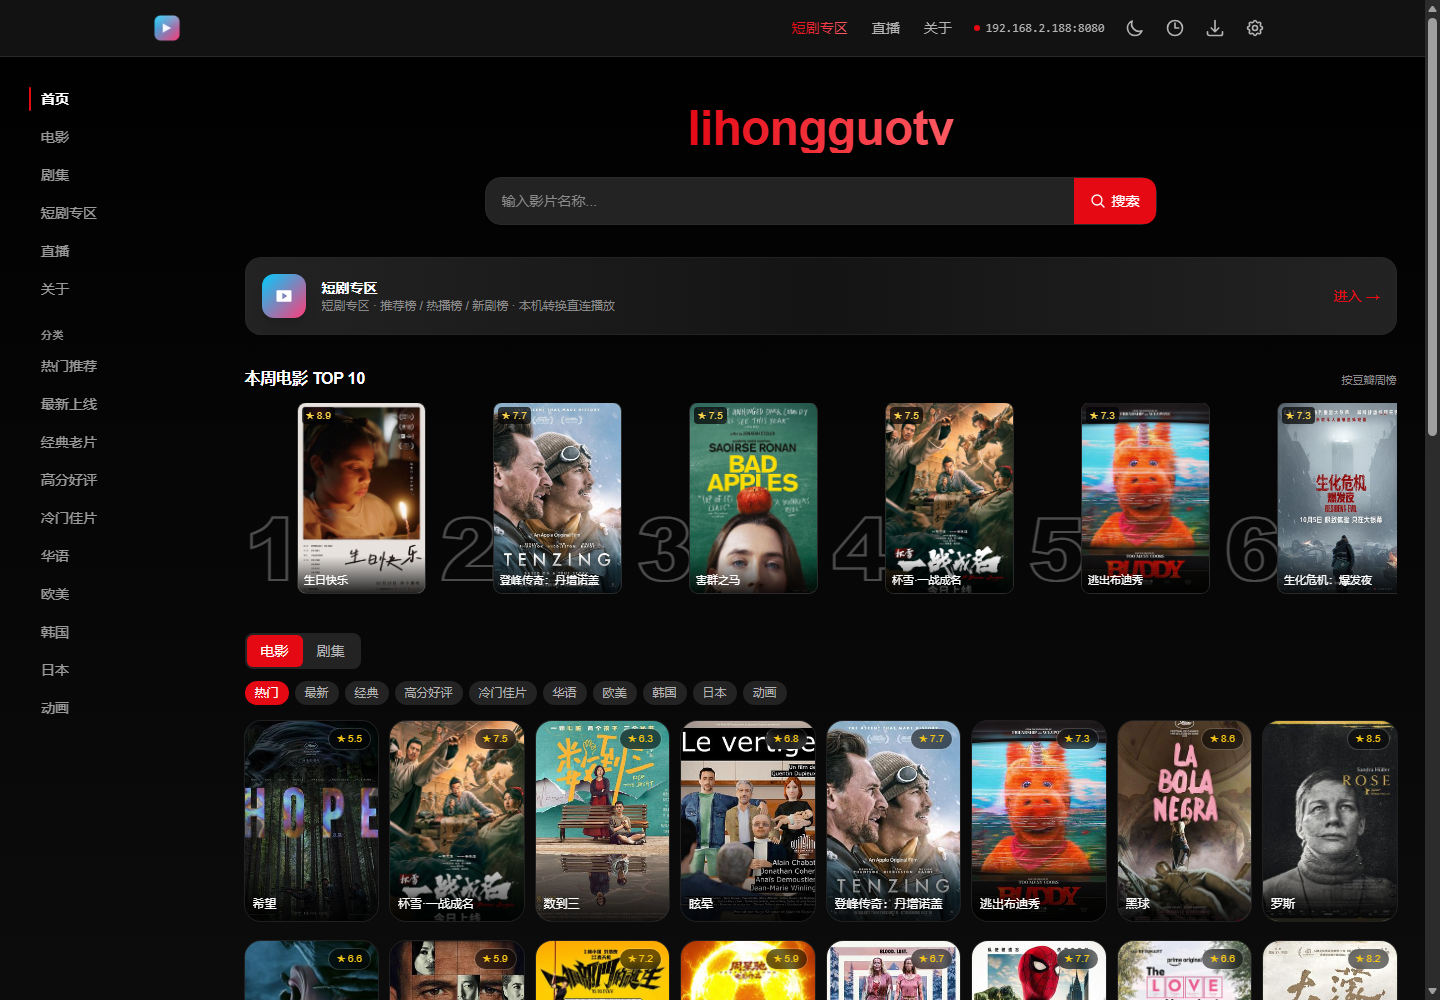
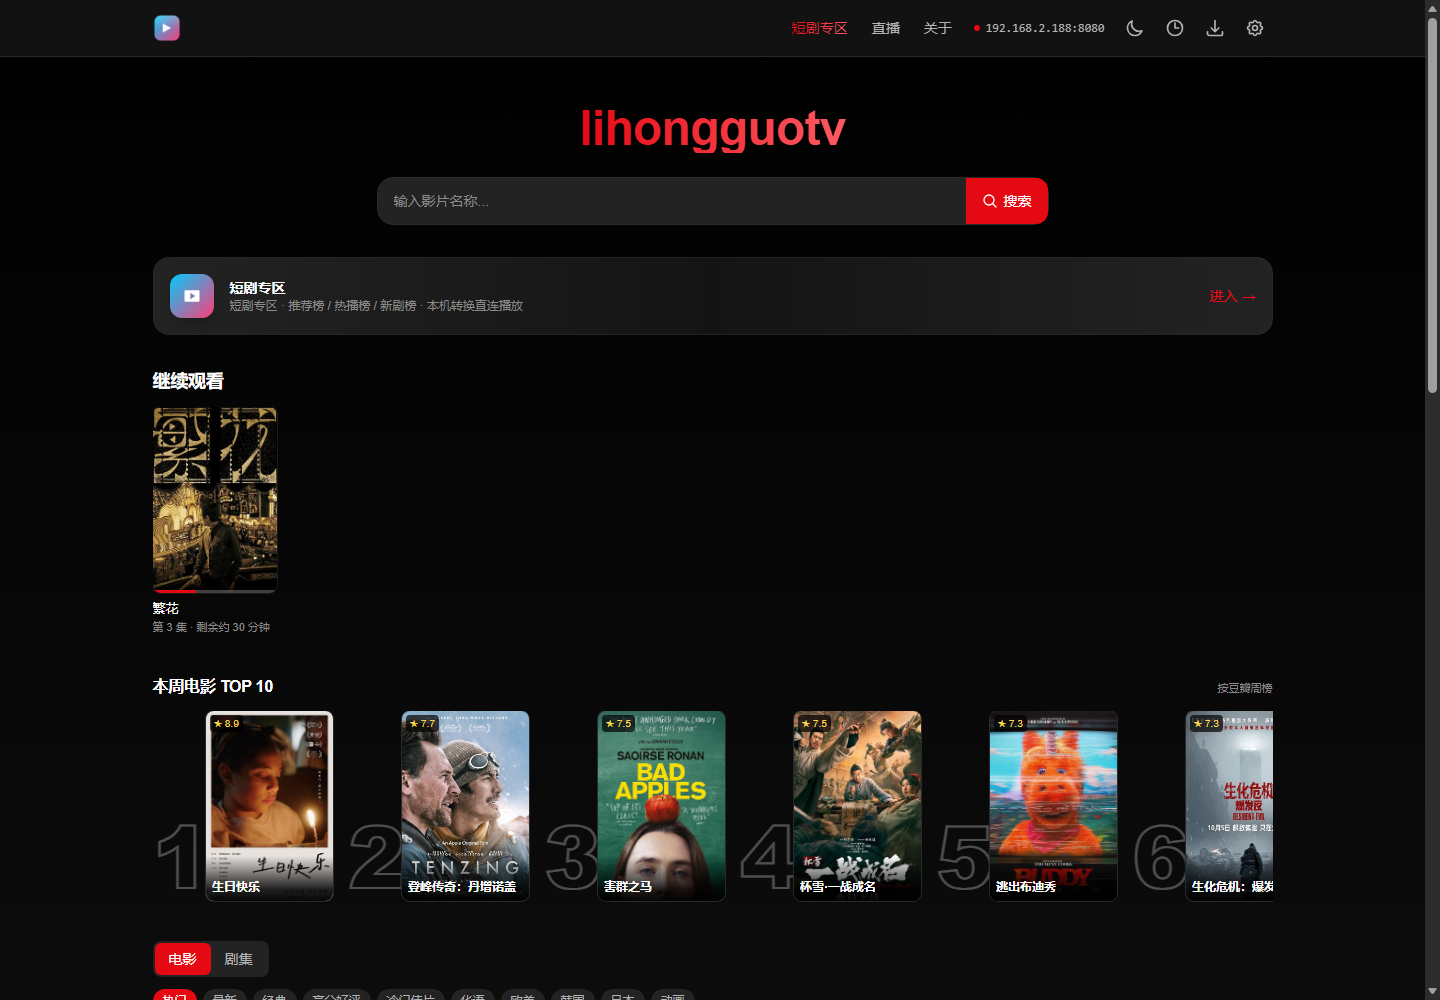
回退左侧竖排导航：首页等页面回到顶部导航
- 你说左边那列丑、条目又多 —— 拆掉 NetflixNav（aside + 手机胶囊），首页/直播/短剧/关于恢复原来的顶部导航与居中布局
- 删掉 netflix-nav.tsx；手机端因此不再有「胶囊挤一行」的问题
- 首页「继续观看」和 TOP 10 顺序保留（继续观看在上）
- 同步刷新 README 截图（home/search），CHANGELOG 里记下这次回退的原因

diff --git a/app/src/app/page.tsx b/app/src/app/page.tsx
@@ -8,7 +8,6 @@ import { Header } from '@/components/header';
 import { RecommendSection } from '@/components/douban-section';
 import { RankRow } from '@/components/rank-row';
 import { ContinueWatchingRow } from '@/components/continue-watching';
-import { NetflixNav } from '@/components/netflix-nav';
 import { AggregatedCard, aggregateResults } from '@/components/video-card';
 import { useAppStore, resolveSource, isInDisabledSubscription, isSourceDisabled } from '@/lib/store';
 import { api } from '@/lib/client-api';
@@ -177,11 +176,7 @@ function HomeContent() {
     <div className="min-h-screen flex flex-col">
       <Header />
 
-      <div className="relative mx-auto flex w-full max-w-[1400px] flex-col gap-2 px-4 py-4 lg:flex-row lg:items-start lg:gap-6">
-        <NetflixNav
-          activeTab={searchParams.get('tab') === 'tv' ? 'tv' : searchParams.get('tab') === 'movie' ? 'movie' : null}
-          activeCat={searchParams.get('cat')}
-        />
+      <div className="relative mx-auto w-full max-w-6xl px-4 py-4">
         <main className="min-w-0 flex-1">
         {/* 首屏氛围渐变 */}
         {!urlQuery && (
@@ -421,8 +416,7 @@ function HomeContent() {
         </main>
       </div>
 
-      <SiteFooter />
-    </div>
+      <SiteFooter />    </div>
   );
 }
 

diff --git a/app/src/app/live/page.tsx b/app/src/app/live/page.tsx
@@ -6,7 +6,6 @@ import { useQuery } from '@tanstack/react-query';
 import { api } from '@/lib/client-api';
 import { copyToClipboard } from '@/lib/clipboard';
 import { Header } from '@/components/header';
-import { NetflixNav } from '@/components/netflix-nav';
 // 播放器（artplayer + hls.js）按需加载：拆出独立 chunk，不占首屏 First Load JS
 import dynamic from 'next/dynamic';
 const LivePlayer = dynamic(() => import('@/components/live-player').then((m) => m.LivePlayer), {
@@ -221,9 +220,7 @@ function LiveContent() {
   return (
     <div className="min-h-screen flex flex-col">
       <Header showSearch />
-      <div className="mx-auto flex w-full max-w-[1400px] flex-col gap-2 px-4 py-4 lg:flex-row lg:items-start lg:gap-6">
-        <NetflixNav />
-        <main className="min-w-0 flex-1">
+      <main className="flex-1 max-w-7xl w-full mx-auto px-4 py-4">
         <div className="grid grid-cols-1 lg:grid-cols-[1fr_320px] gap-4">
           {/* 主栏：播放器 + 信息条 + 节目单 */}
           <div className="min-w-0">
@@ -465,8 +462,7 @@ function LiveContent() {
             频道
           </button>
         )}
-        </main>
-      </div>
+      </main>
     </div>
   );
 }

diff --git a/app/src/app/hongguo/page.tsx b/app/src/app/hongguo/page.tsx
@@ -2,7 +2,6 @@
 
 import { useCallback, useEffect, useMemo, useRef, useState } from 'react';
 import { Header } from '@/components/header';
-import { NetflixNav } from '@/components/netflix-nav';
 import { cn } from '@/lib/utils';
 
 /**
@@ -856,9 +855,7 @@ export default function HongguoPage() {
   return (
     <div className="min-h-screen flex flex-col">
       <Header />
-      <div className="mx-auto flex w-full max-w-[1400px] flex-col gap-2 px-4 py-4 lg:flex-row lg:items-start lg:gap-6">
-        <NetflixNav />
-        <main className="min-w-0 flex-1">
+      <main className="mx-auto w-full max-w-7xl flex-1 px-4 py-6">
         {/* 标题 + 搜索 */}
         <div className="mb-5 flex flex-wrap items-end justify-between gap-4">
           <div>
@@ -1104,8 +1101,7 @@ export default function HongguoPage() {
         {!loading && !err && items.length === 0 && (
           <p className="py-16 text-center text-sm text-faint">这个分类暂时没有内容，换个体裁或关键词试试</p>
         )}
-        </main>
-      </div>
+      </main>
 
       {/* 详情弹层 */}
       {detail && (

diff --git a/app/src/app/about/page.tsx b/app/src/app/about/page.tsx
@@ -1,7 +1,6 @@
 'use client';
 
 import { Header } from '@/components/header';
-import { NetflixNav } from '@/components/netflix-nav';
 import { SiteFooter } from '@/components/site-footer';
 import { LanBadge } from '@/components/lan-badge';
 
@@ -19,9 +18,7 @@ export default function AboutPage() {
   return (
     <div className="min-h-screen flex flex-col">
       <Header />
-      <div className="mx-auto flex w-full max-w-[1400px] flex-col gap-2 px-4 py-4 lg:flex-row lg:items-start lg:gap-6">
-        <NetflixNav />
-        <main className="min-w-0 flex-1">
+      <main className="mx-auto w-full max-w-3xl flex-1 px-4 py-8">
           <div className="mx-auto max-w-3xl space-y-7 pb-10 pt-2 sm:pt-6">
             <header>
               <h1 className="text-2xl font-bold text-white sm:text-3xl">关于 lihongguotv</h1>
@@ -82,8 +79,7 @@ export default function AboutPage() {
               </a>
             </Block>
           </div>
-        </main>
-      </div>
+      </main>
       <SiteFooter />
     </div>
   );

diff --git a/CHANGELOG.md b/CHANGELOG.md
@@ -7,7 +7,7 @@
 - **采集源资料页** `/detail/<源>/<片>`：完整页面取代「播放前详情弹窗」，海报 / 年份 / 地区 / 类型 / 简介 / 导演主演 / 播放源 / 剧集一页看完，搜索结果点海报直接进这里。
 - **豆瓣资料页内嵌播放面板**：原来的「播放」按钮要跳回搜索页再弹窗，现在资料页里直接跨源换源、选集、开第 1 集。
 - **相似影片**：资料页底部横滑行，接豆瓣 `/movie/<id>/recommendations`（10 分钟缓存），点进去是另一部的资料页。
-- **左侧类型导航**：桌面竖排、手机胶囊；首页分类联动 `?cat=`，直播 / 短剧专区 / 关于页共用同一套。
+- 首页 / 直播 / 短剧 / 关于仍是原来的顶部导航（试过左侧竖排导航，条目偏多、观感也偏重，已回退）。
 - **播放手势**：双击画面左 / 右 35% 区域后退 / 快进 10 秒；长按 450ms 临时 2 倍速，松开恢复，左上角常驻「2×」提示。
 
 ### 改进（观影体验）
